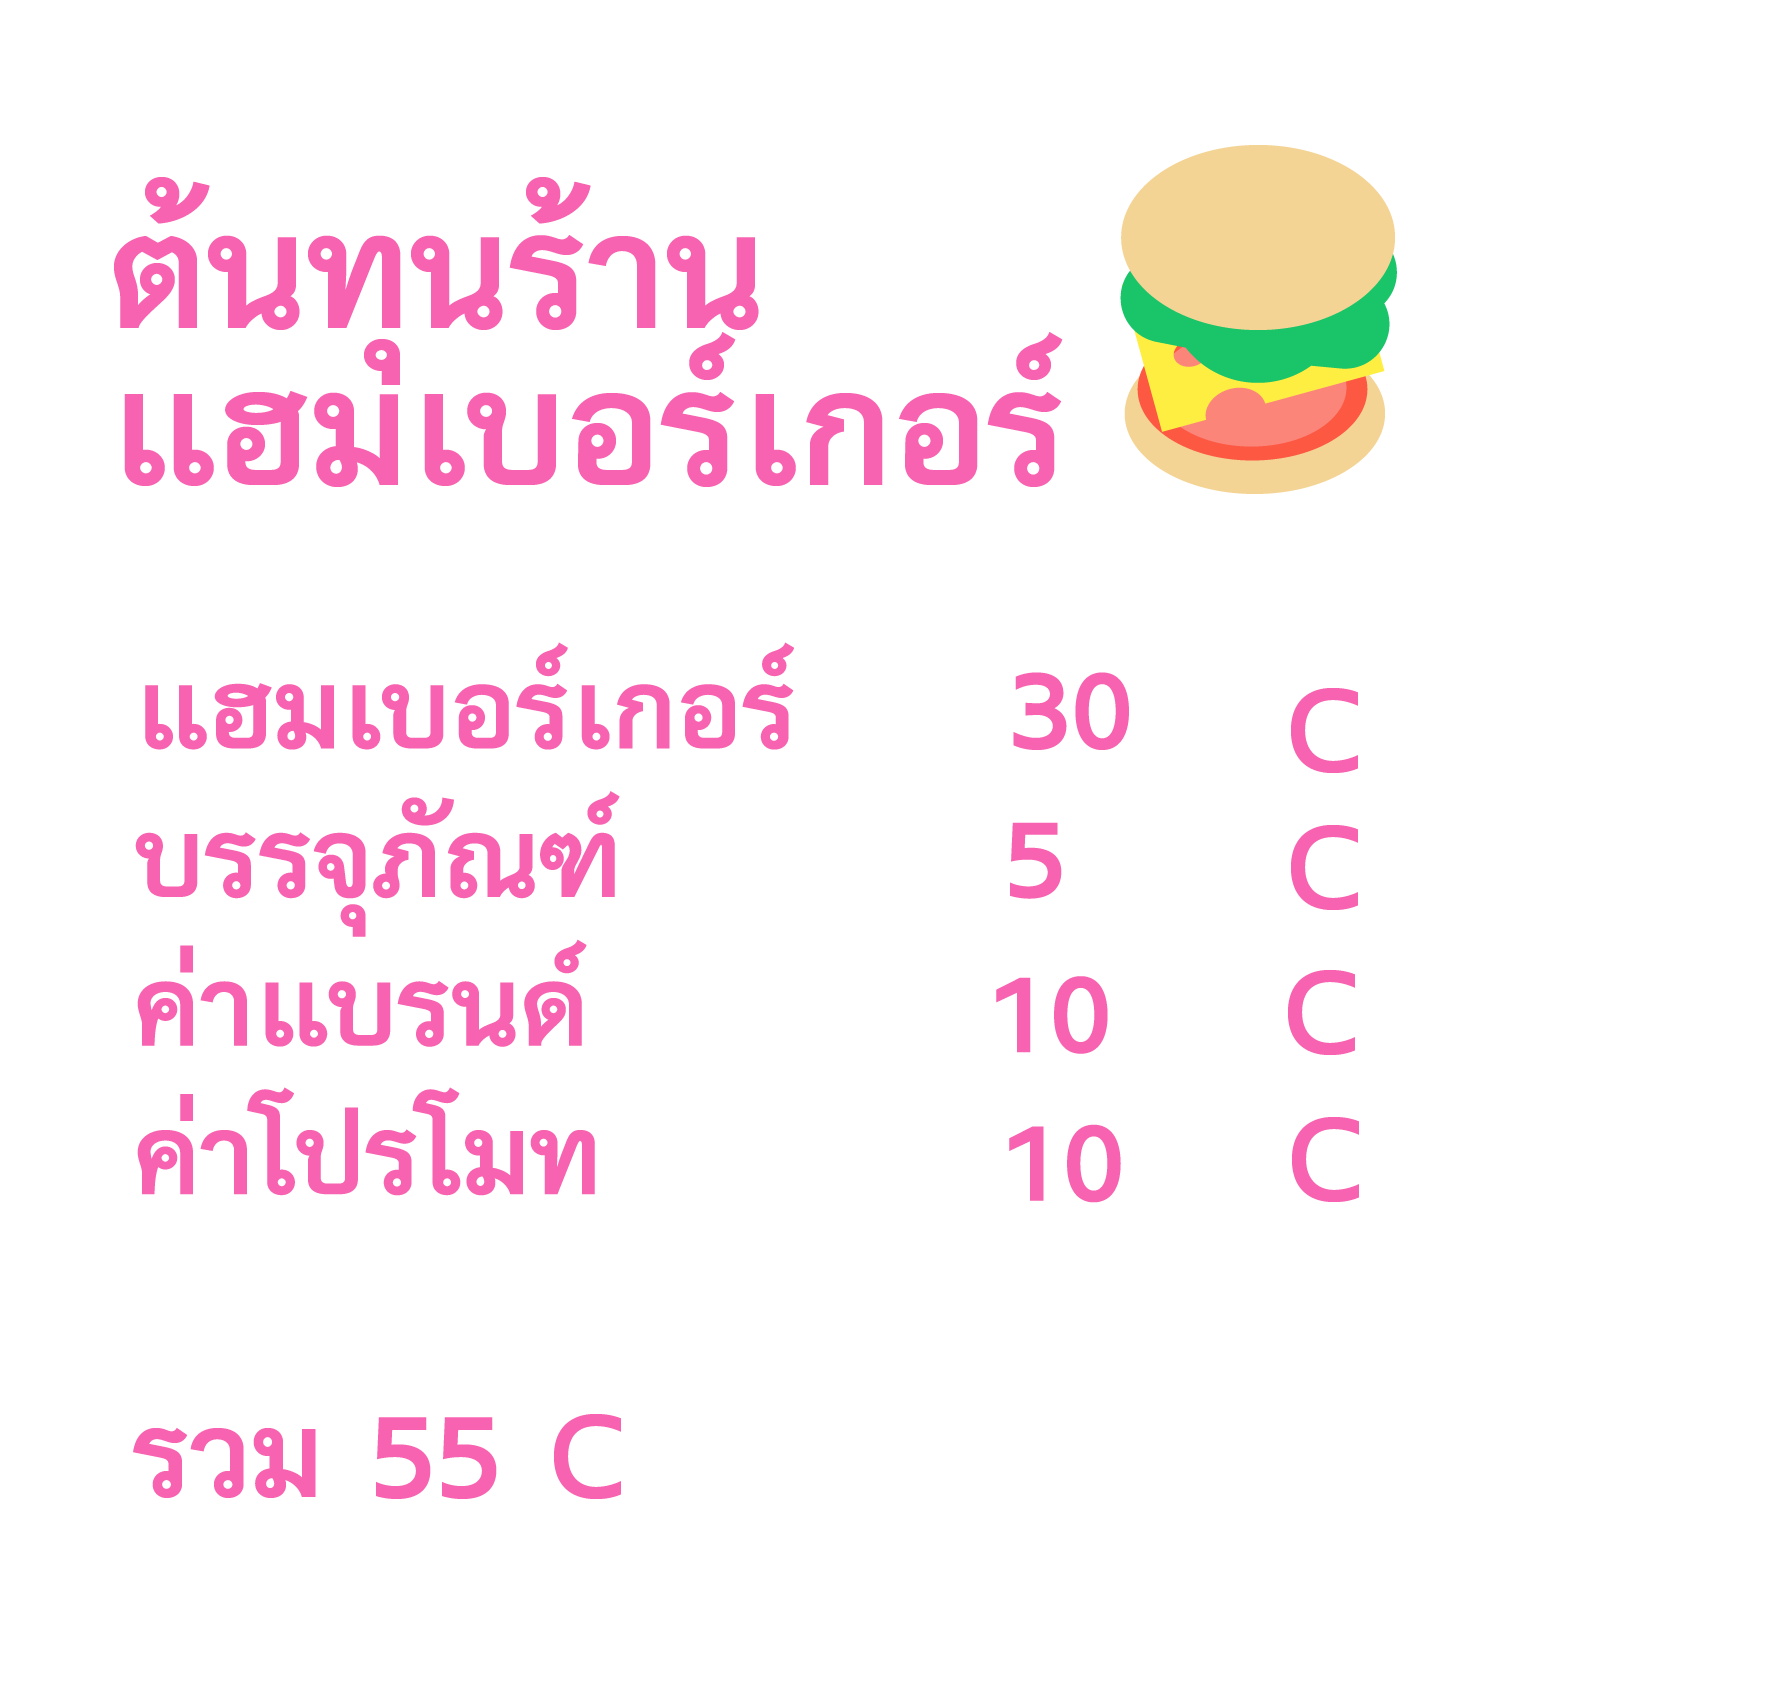
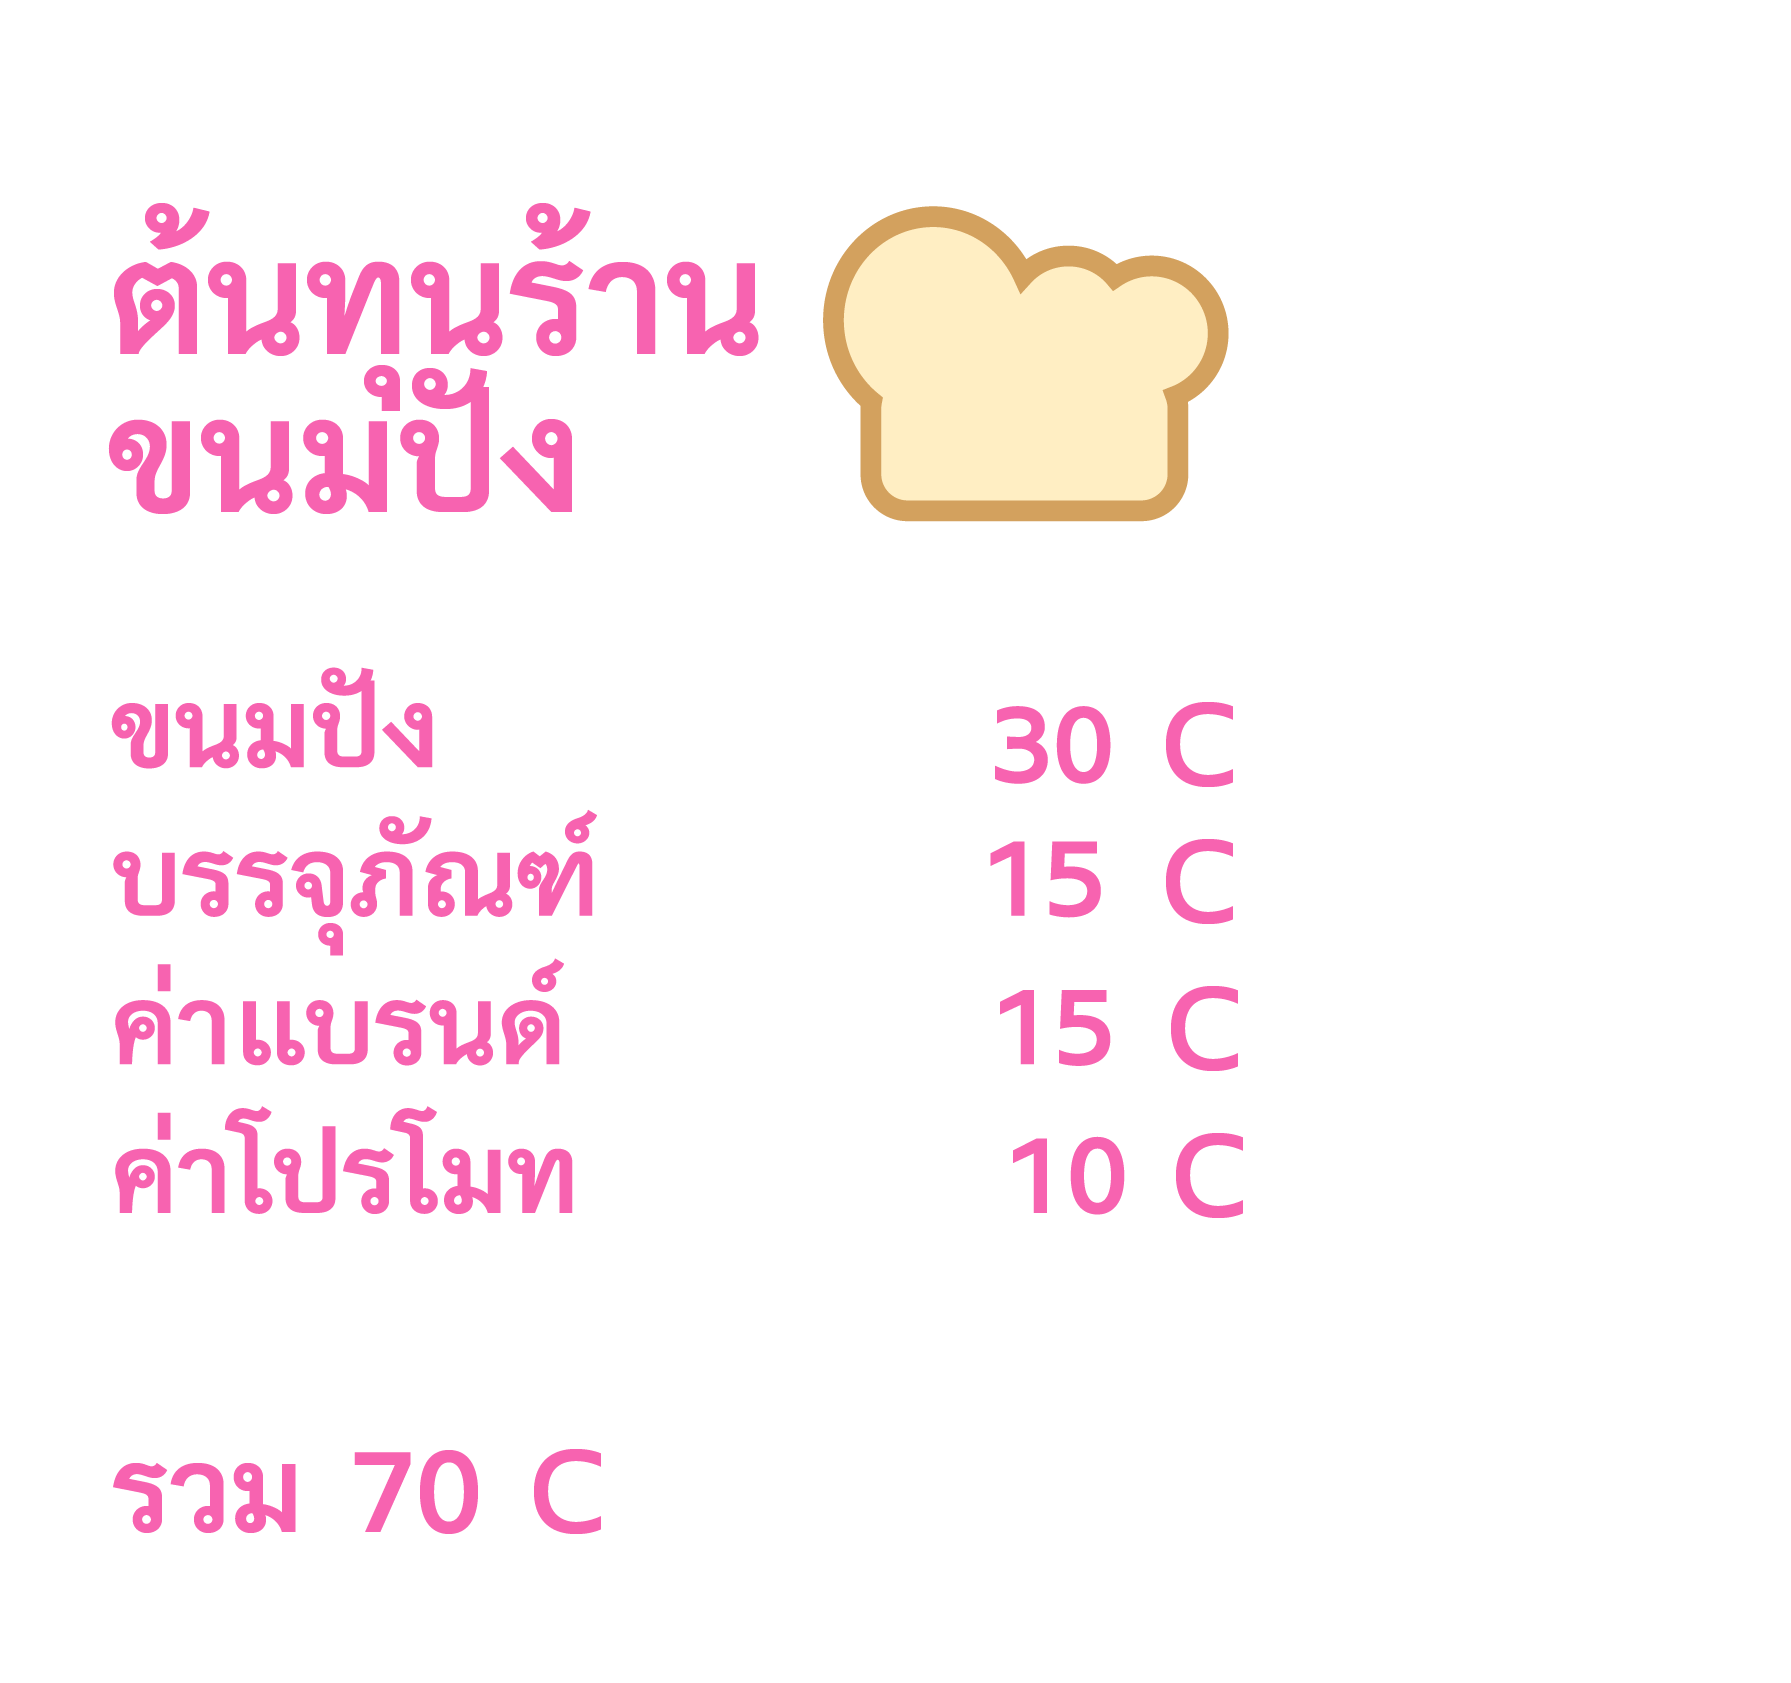
Fix shop cost cards mapping mismatch

diff --git a/app.js b/app.js
@@ -1209,6 +1209,12 @@ function setupScene12() {
     getEl('scene12-card-wrapper').classList.add('hidden');
     getEl('scene12-cost-btn-wrapper').classList.remove('hidden');
     getEl('btn-scene12-next').classList.add('hidden');
+
+    // Ensure strictly the selected shop's cost card is prepared
+    document.querySelectorAll('.scene12-cost-card-img').forEach(img => img.classList.add('hidden'));
+    const targetCard = getEl(`scene12-cost-card-${gameState.selectedShop}`);
+    if (targetCard) targetCard.classList.remove('hidden');
+
     showScene('scene-12');
 }
 
